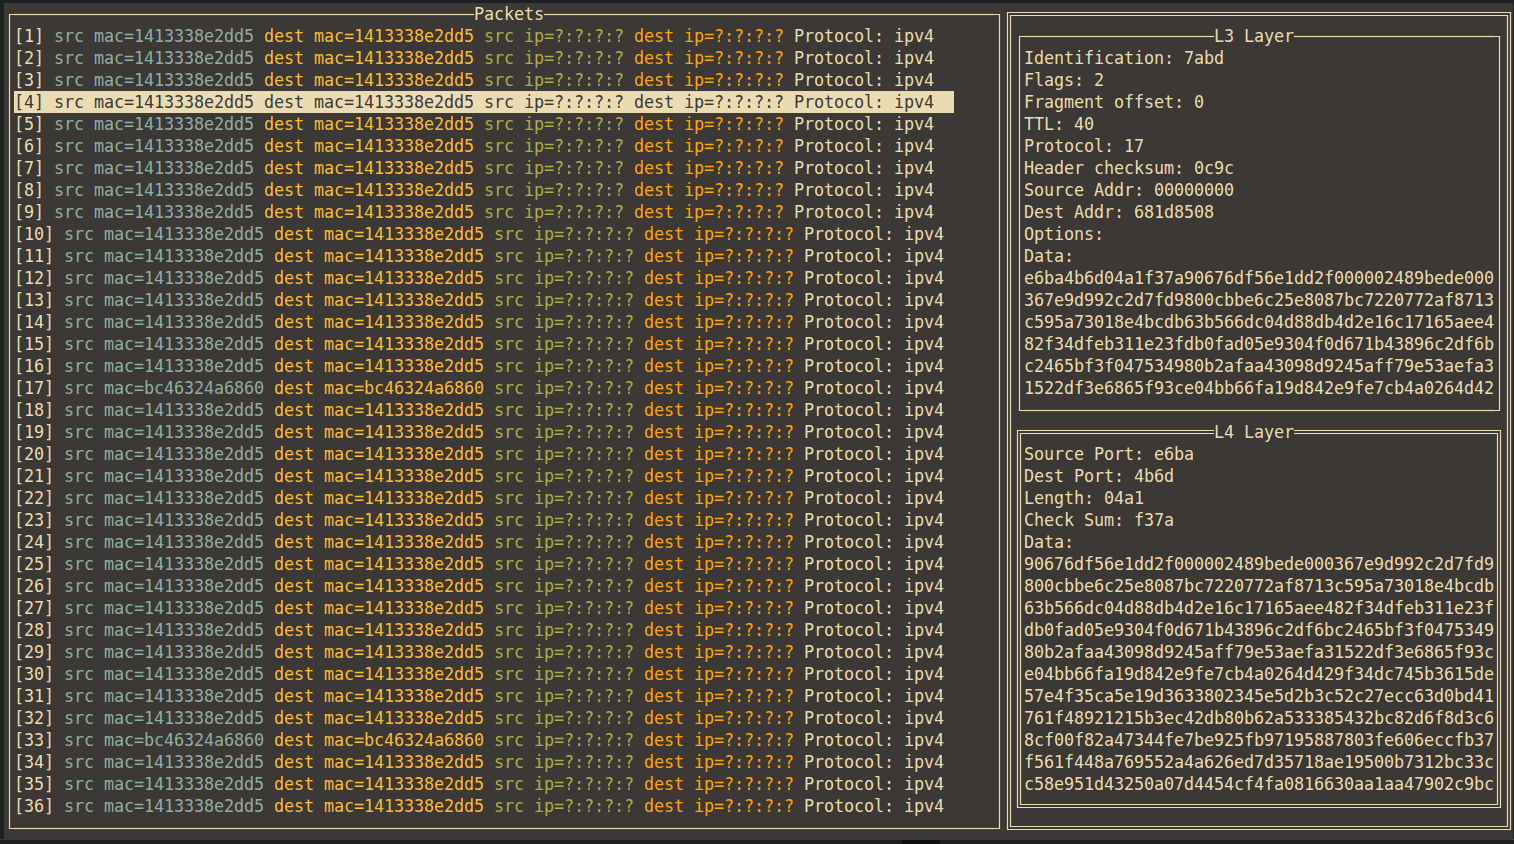
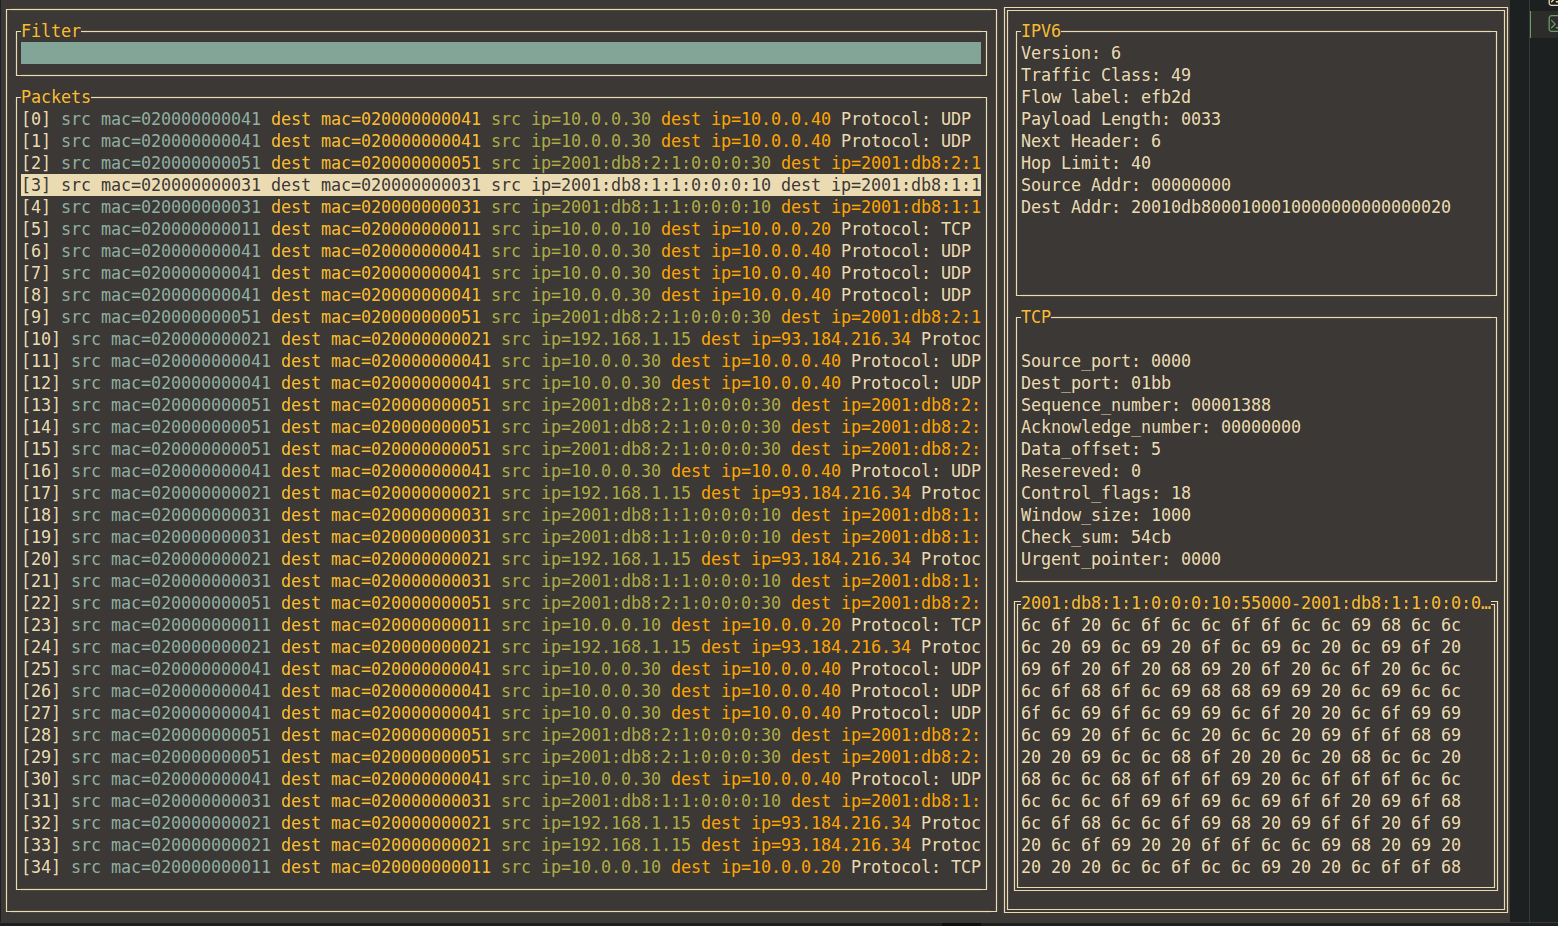
readme

diff --git a/README.md b/README.md
@@ -1,17 +1,27 @@
 # snffff
 
-Tui packet sniffer using unix raw sockets, supports TCP reassembly and regrouping.
+Tui packet sniffer for linux, supports TCP reassembly and regrouping.
+
+## Why
+
+educational purposes only.
 
 ## What it does 
 
 - Intercepts ethernet packets using `AF_PACKET` sockets
-- parses layer 2-4 from osi
-- grouping/reassembling tcp packets by flowId
-- filter packets by flowId (srcIp+srcPort+dstIp+dstPort)
+- parses OSI layers 2–4 (Ethernet, IPv4/IPv6/ARP, TCP/UDP)
+- groups TCP segments into flows and reassembles them by sequence number
+- filter packets by flowId (srcIp:srcPort:dstIp:dstPort)
+  
+## Demo
+
+>note: demo using `--demo`, which means no real traffic network is captured or shown.
+
+![demo](assets/demo.png)
 
 https://github.com/user-attachments/assets/456196d7-7ca9-422b-819f-e038b94b4e45
 
-## Installation (works only on unix systems)
+## Installation (linux only)
 
 ```bash 
 git clone https://github.com/yacine204/snffff
